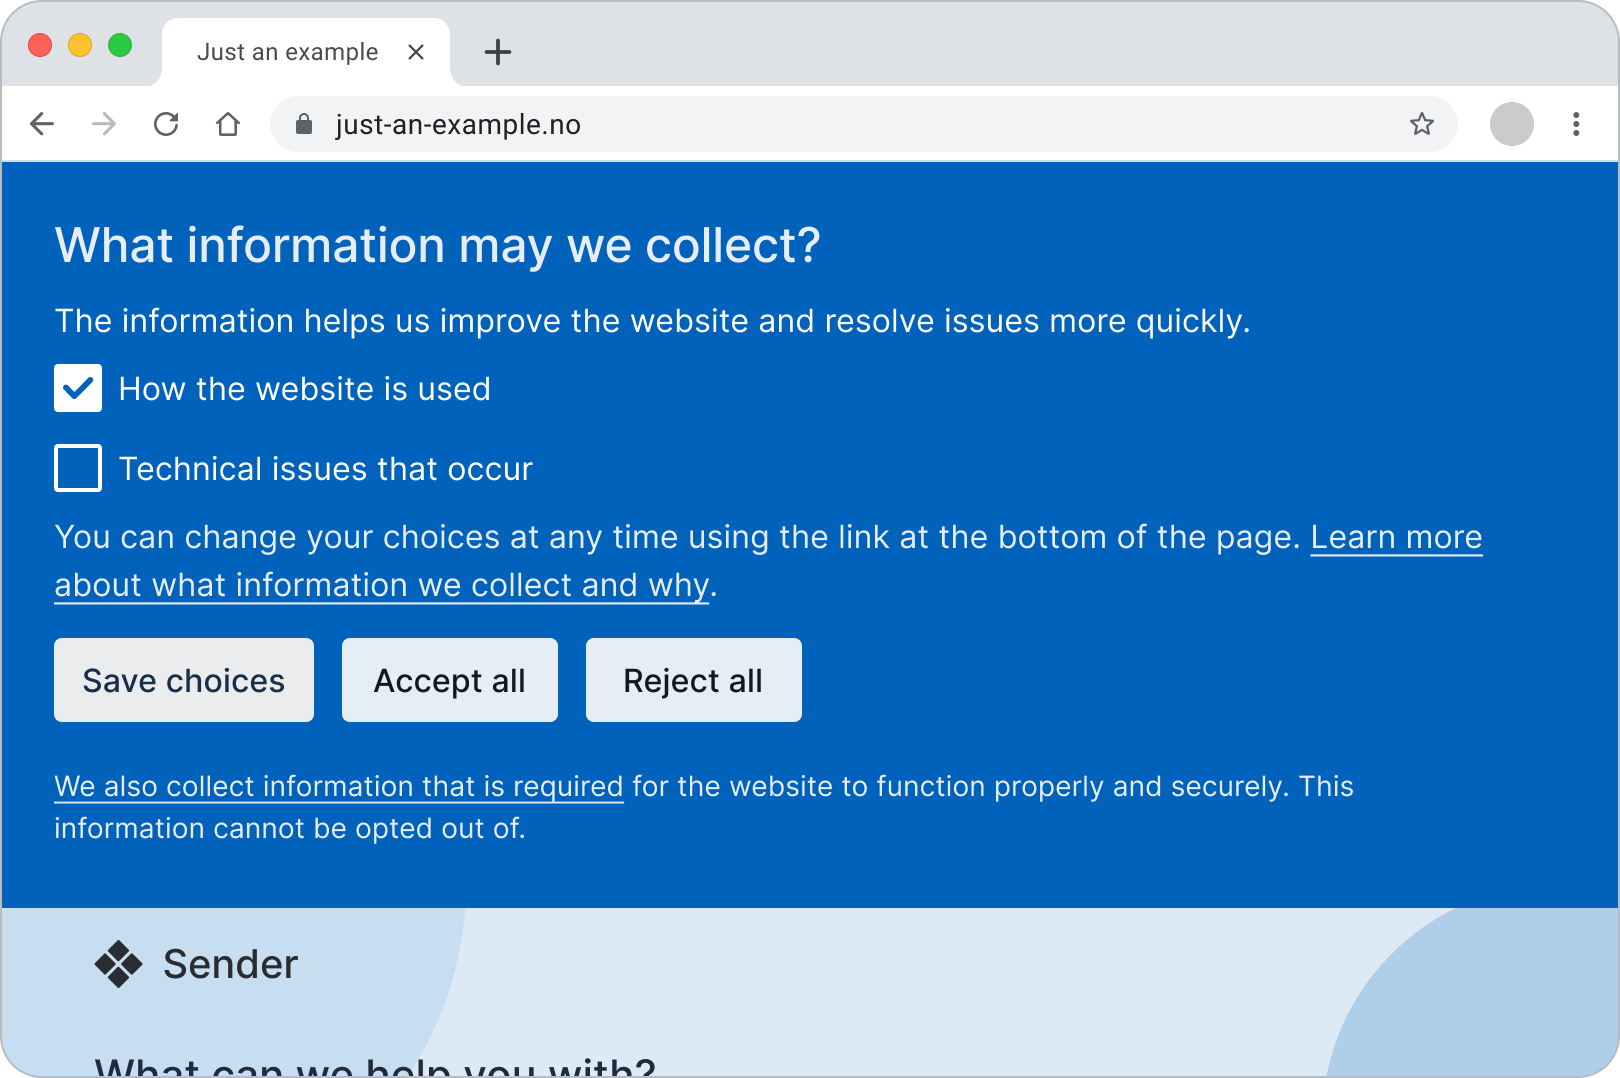
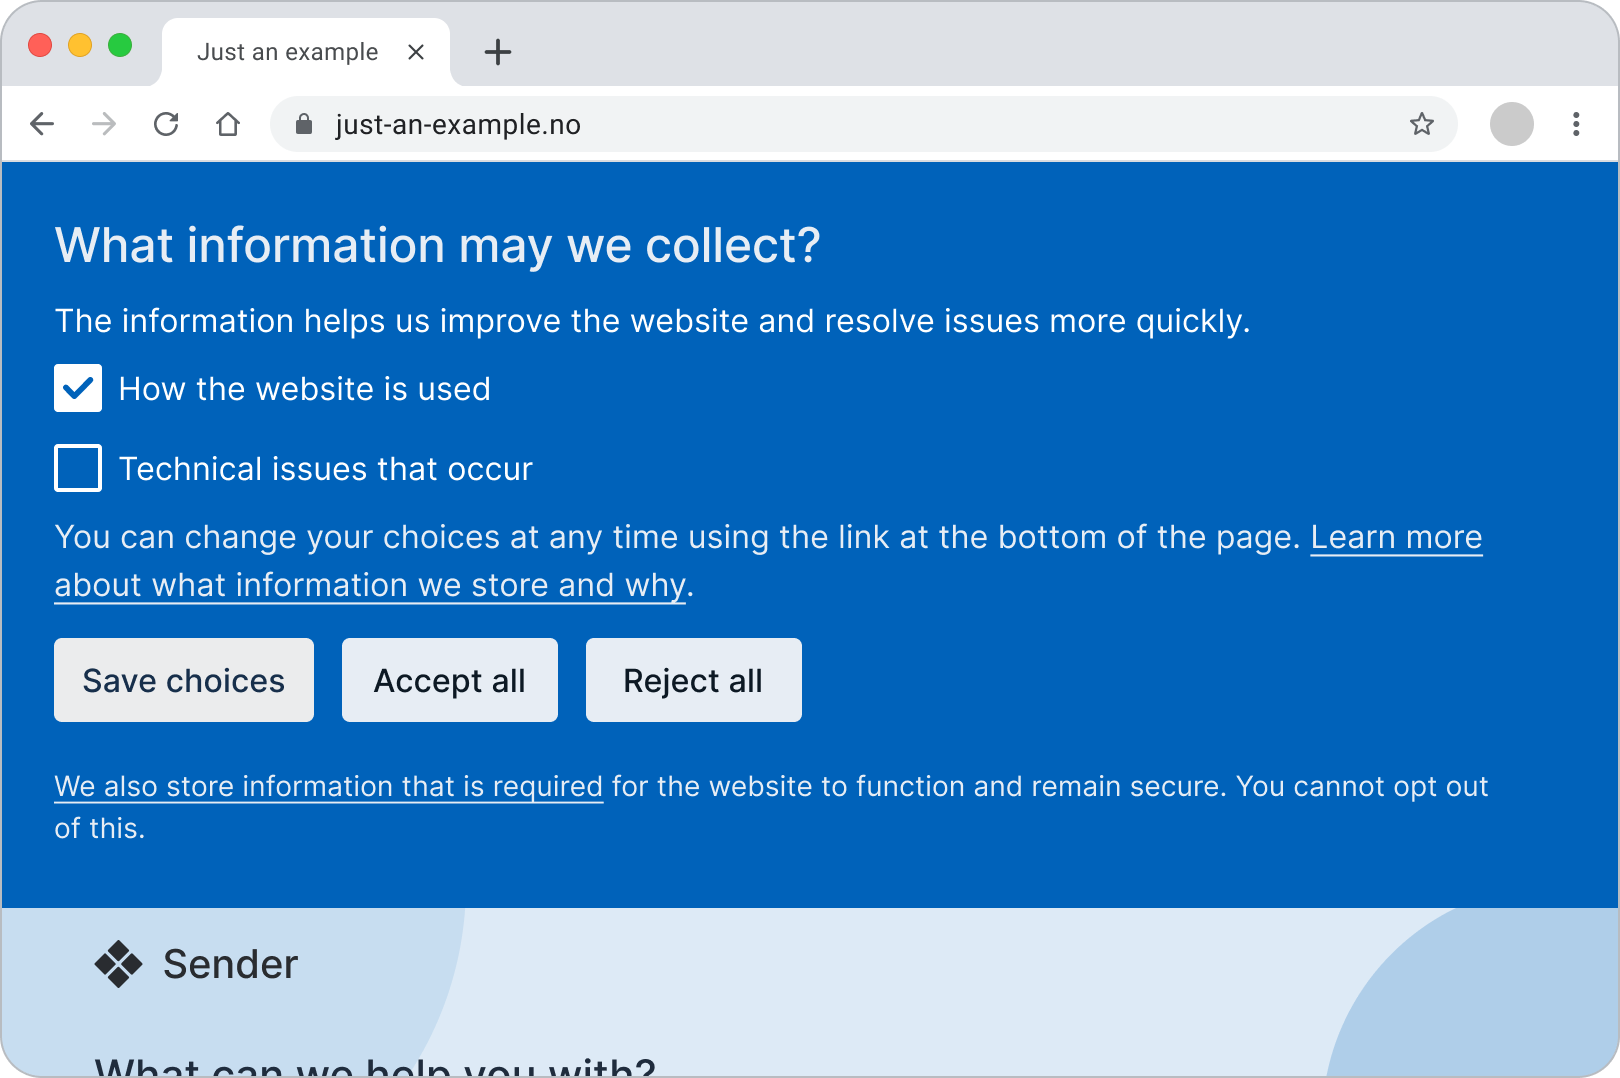
Quality control and fix by ux-writer for consent article

Changed region(s): [[0.0309, 0.7041, 0.9259, 0.7959], [0.2778, 0.5204, 0.4321, 0.551]]

diff --git a/apps/www/app/content/patterns/en/consent-banner.dodont.tsx b/apps/www/app/content/patterns/en/consent-banner.dodont.tsx
@@ -19,7 +19,7 @@ export const DontNegations = () => {
 export const DoNegations = () => {
   return (
     <Paragraph>
-      Can we collect information about how you use this website?
+      May we collect information about how you use this website?
     </Paragraph>
   );
 };
@@ -85,10 +85,9 @@ export const DoNecessaryCookiesCheckbox = () => {
   return (
     <Paragraph>
       <Link href='#necessary-information' style={{ color: 'inherit' }}>
-        We also collect information that is required
+        We also store information that is required
       </Link>{' '}
-      for the website to function properly and securely. This information cannot
-      be opted out of.
+      for the website to function and remain secure. You cannot opt out of this.
     </Paragraph>
   );
 };
